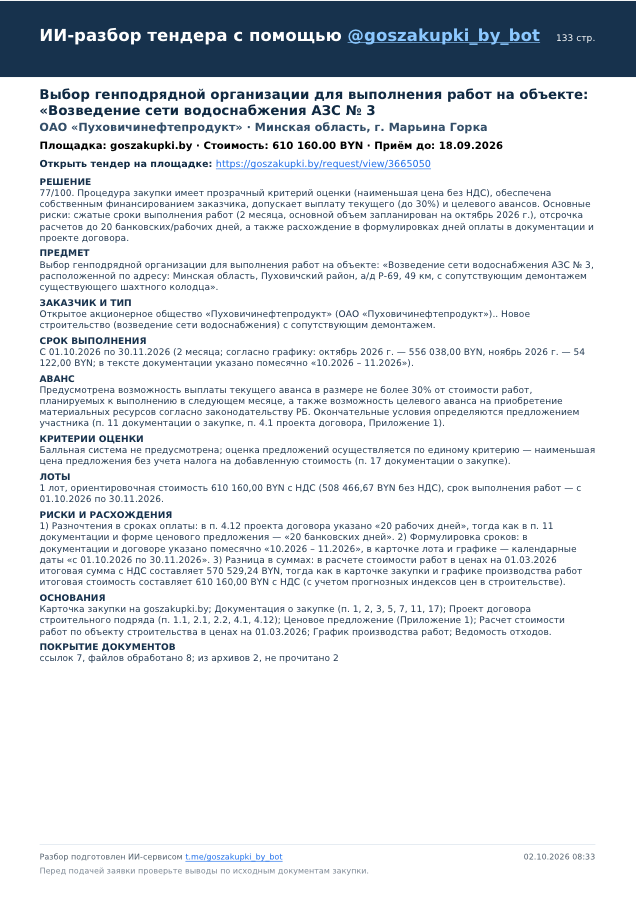
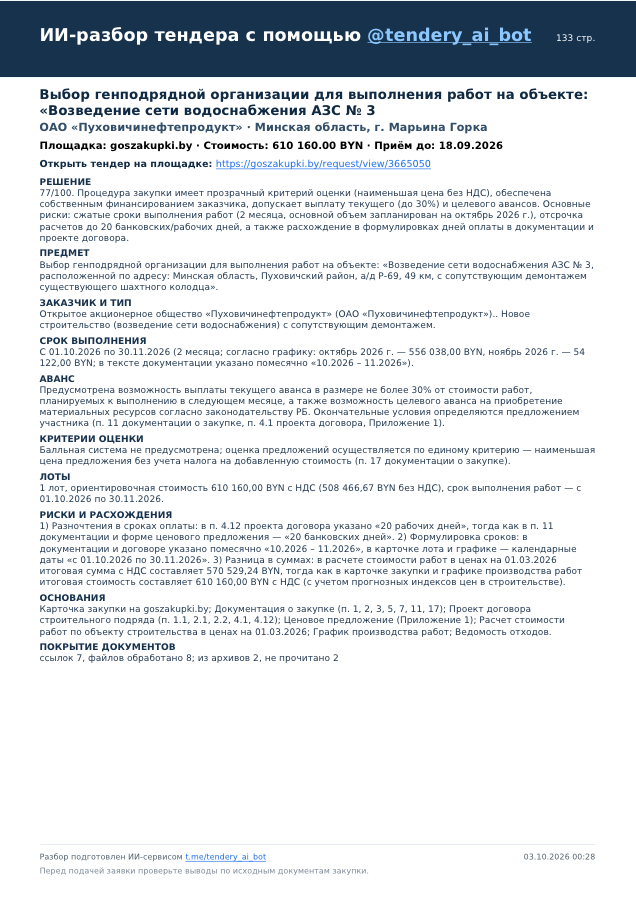
Rename to Tendery AI, link @tendery_ai_bot, new example PDF header

Changed region(s): [[0.0597, 0.0311, 0.8664, 0.0622], [0.3286, 0.9333, 0.4481, 0.9644]]

diff --git a/site/index.html b/site/index.html
@@ -3,9 +3,9 @@
 <head>
 <meta charset="utf-8">
 <meta name="viewport" content="width=device-width, initial-scale=1">
-<title>Тендеры с ИИ</title>
+<title>Tendery AI</title>
 <meta name="description" content="Telegram-бот находит тендеры в Беларуси, России и Казахстане и за минуту объясняет главное: сумму, аванс, критерии, сроки и риски.">
-<meta property="og:title" content="Тендеры с ИИ — поиск и разбор тендеров в Telegram">
+<meta property="og:title" content="Tendery AI — поиск и разбор тендеров в Telegram">
 <meta property="og:description" content="Находит подходящие закупки и читает документы за вас. 10 кредитов на старте бесплатно.">
 <meta property="og:image" content="example.png">
 <link rel="preconnect" href="https://fonts.googleapis.com">
@@ -79,7 +79,7 @@
 </head>
 <body>
 <header class="wrap">
-  <div class="brand"><span class="dot">Т</span>Тендеры с ИИ</div>
+  <div class="brand"><span class="dot">Т</span>Tendery AI</div>
 </header>
 
 <main>
@@ -89,7 +89,7 @@
       <p class="lead">Telegram-бот следит за площадками Беларуси, России и Казахстана, присылает
         подходящие закупки и читает документацию за вас: сумма, аванс, критерии оценки,
         сроки и риски — в одной карточке.</p>
-      <a class="cta" href="https://t.me/goszakupki_by_bot">Открыть бота в Telegram →</a>
+      <a class="cta" href="https://t.me/tendery_ai_bot">Открыть бота в Telegram →</a>
       <div class="note">На старте — 10 кредитов бесплатно: этого хватит на 20 карточек тендеров.</div>
     </div>
     <div class="card tg" aria-label="Пример карточки в Telegram">
@@ -190,12 +190,12 @@
   <section class="wrap final">
     <h2>Попробуйте на своём тендере</h2>
     <p class="lead" style="margin:0 auto 22px">Пришлите боту ссылку на любую закупку — через минуту придёт карточка с главным из документов.</p>
-    <a class="cta" href="https://t.me/goszakupki_by_bot">Открыть бота в Telegram →</a>
+    <a class="cta" href="https://t.me/tendery_ai_bot">Открыть бота в Telegram →</a>
   </section>
 </main>
 
 <footer class="wrap">
-  © 2026 Тендеры с ИИ · <a href="../privacy.html">Политика конфиденциальности</a> ·
+  © 2026 Tendery AI · <a href="../privacy.html">Политика конфиденциальности</a> ·
   Сервис помогает отбирать закупки и не гарантирует победу; решения об участии принимает пользователь.
 </footer>
 </body>

diff --git a/privacy.html b/privacy.html
@@ -4,7 +4,7 @@
   <meta charset="utf-8">
   <meta name="viewport" content="width=device-width, initial-scale=1">
   <meta name="color-scheme" content="light dark">
-  <title>Политика конфиденциальности — Тендеры с ИИ</title>
+  <title>Политика конфиденциальности — Tendery AI</title>
   <style>
     :root {
       color-scheme: light dark;
@@ -62,7 +62,7 @@
 </head>
 <body>
   <main>
-    <div class="service">Тендеры с ИИ</div>
+    <div class="service">Tendery AI</div>
     <h1>Политика конфиденциальности</h1>
     <p class="date">Актуально с 12 сентября 2026 года</p>
 
@@ -81,7 +81,7 @@
     <h2>Выгрузка, исправление и удаление</h2>
     <p>Чтобы запросить выгрузку, исправление или удаление своих данных, откройте в боте «Помощь» → «Предложить улучшение» и добавьте пометку «Персональные данные».</p>
 
-    <a class="back" href="https://t.me/goszakupki_by_bot">Открыть бота</a>
+    <a class="back" href="https://t.me/tendery_ai_bot">Открыть бота</a>
   </main>
 </body>
 </html>
